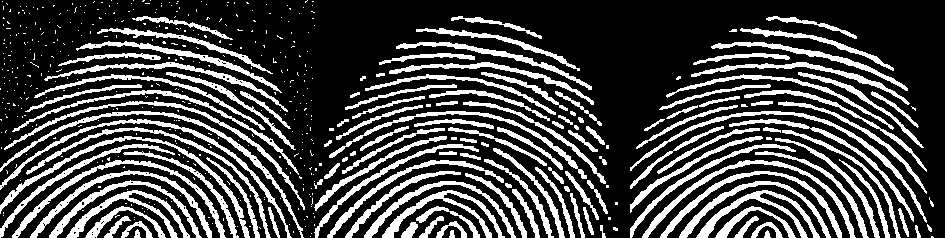
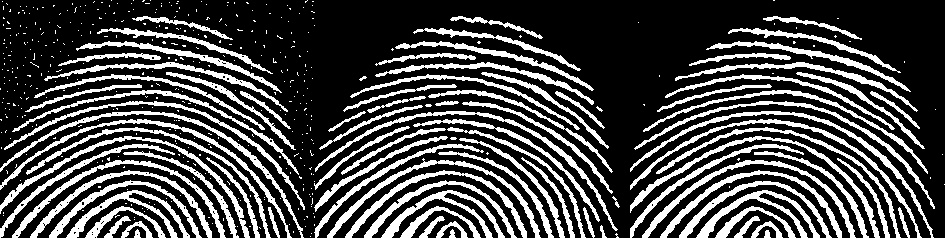
itk its broken

diff --git a/machinevision/assignment3/cells.py b/machinevision/assignment3/cells.py
@@ -1,0 +1,62 @@
+import cv2
+import numpy as np
+
+
+def circledetector(image):
+    # image = image.HoughCircles()
+    # Convert to grayscale. 
+    gray = cv2.cvtColor(image, cv2.COLOR_BGR2GRAY) 
+    
+    # Blur using 3 * 3 kernel. 
+    # gray_blurred = cv2.blur(gray, (9, 9)) 
+    laplacian = cv2.Laplacian(gray, cv2.CV_64F)
+    transformed = cv2.morphologyEx(laplacian, cv2.MORPH_DILATE, np.ones((7,7), np.uint8))
+    cv2.imshow("Blurred", transformed)
+    cv2.imwrite(f'machinevision/assignment3/results/{whichImage}blurred.jpg', transformed)
+    
+    # Apply Hough transform on the blurred image. 
+    detected_circles = cv2.HoughCircles(transformed,  
+                    cv2.HOUGH_GRADIENT, 1, 20, param1 = 50, 
+                param2 = 30, minRadius = 1, maxRadius = 40) 
+    
+    # Draw circles that are detected. 
+    if detected_circles is not None: 
+    
+        # Convert the circle parameters a, b and r to integers. 
+        detected_circles = np.uint16(np.around(detected_circles)) 
+    
+        for pt in detected_circles[0, :]: 
+            a, b, r = pt[0], pt[1], pt[2] 
+    
+            # Draw the circumference of the circle. 
+            cv2.circle(image, (a, b), r, (0, 255, 0), 2) 
+    
+            # Draw a small circle (of radius 1) to show the center. 
+            cv2.circle(image, (a, b), 1, (0, 0, 255), 3) 
+            # cv2.imshow("Detected Circle", image) 
+            # cv2.waitKey(0) 
+
+        #save the final image
+    cv2.imwrite(f'machinevision/assignment3/results/{whichImage}circles.jpg', image)
+        
+
+    
+    return image
+
+
+
+
+inputPath = 'machinevision/assignment3/'
+whichImage = 'cell'
+image = cv2.imread(f'{inputPath}{whichImage}.jpg')
+images = []
+images.append(image)
+
+
+#save the images to file
+# cv2.imwrite(f'machinevision/assignment3/results/{whichImage}morphologicalFiltered.jpg', circledetection)
+
+# For the cell.jpg image, write a code to count the total number of cells, calculate the size 
+# of each cell in pixels, and show the boundary of the biggest cell in an output image. In 
+# your code, you might use any techniques covered in this class. Hint: Thresholding, 
+# morphological filters, connected components, etc.

diff --git a/machinevision/assignment3/filter.py b/machinevision/assignment3/filter.py
@@ -2,22 +2,26 @@ import cv2
 import numpy as np
 
 
-def morphologicalFilter(input):
-    # outputImage = np.zeros(input.shape)
-    # for i in range(1, input.shape[0]-1):
-    #     for j in range(1, input.shape[1]-1):
-    #         outputImage[i,j] = np.max(input[i-1:i+2, j-1:j+2])
-    image = cv2.morphologyEx(input, cv2.MORPH_OPEN, np.ones((3, 3), np.uint8))
-    image = cv2.morphologyEx(image, cv2.MORPH_CLOSE, np.ones((3, 3), np.uint8))
+def morphologicalFilter(image):
+    kernel = [[0,0,1,0,0], [0,1,1,1,0], [1,1,1,1,1], [0,1,1,1,0], [0,0,1,0,0]]
+    kernel = np.array(kernel, np.uint8)
+    ###############################################################
+    # code for output image b
+    # image = cv2.morphologyEx(input, cv2.MORPH_ERODE, kernel)
+    ###############################################################
+
+    ###############################################################
+    # code for output image d
+    image = cv2.morphologyEx(image, cv2.MORPH_CLOSE, kernel)
+    image = cv2.morphologyEx(image, cv2.MORPH_OPEN, kernel)
+    ###############################################################
+
+
     return image
-    # return outputImage
 
 def medianFilter(input):
-    # outputImage = np.zeros(input.shape)
-    # for i in range(1, input.shape[0]-1):
-    #     for j in range(1, input.shape[1]-1):
-    #         outputImage[i,j] = np.median(input[i-1:i+2, j-1:j+2])
-    image = cv2.medianBlur(input, 5)
+    image = cv2.medianBlur(input, 7)
+    # image = cv2.Laplacian(input, cv2.CV_64F)
     return image
 def saveImages(images, whichImage):
     #save the images to one image canvas
@@ -30,7 +34,7 @@ def saveImages(images, whichImage):
     cv2.imwrite(f"machinevision/assignment3/comparisons/{whichImage}comparison.jpg", outputImage)
 
 inputPath = 'machinevision/assignment3/'
-whichImage = 'fingerPrint_BW'
+whichImage = 'morphology'
 image = cv2.imread(f'{inputPath}{whichImage}.png')
 images = []
 images.append(image)
